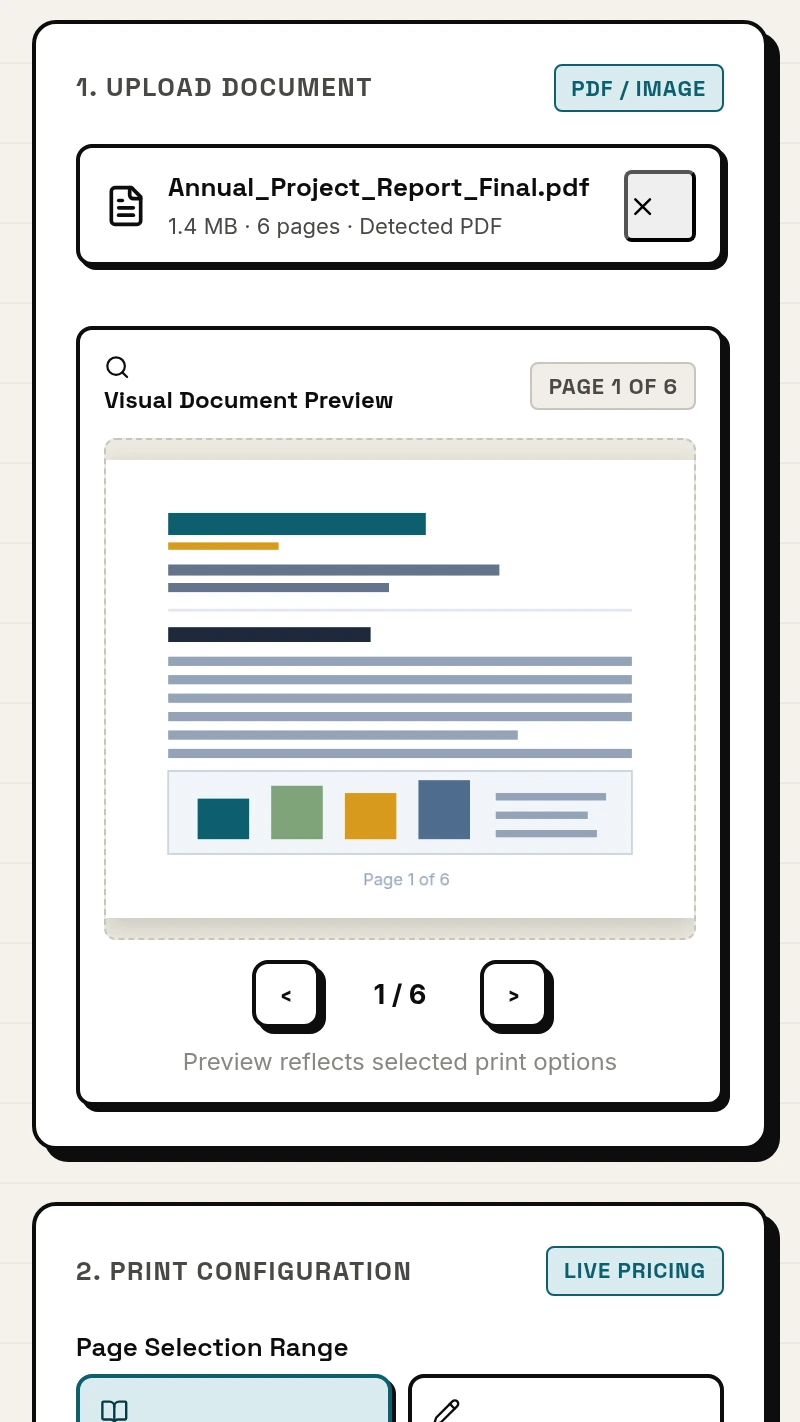
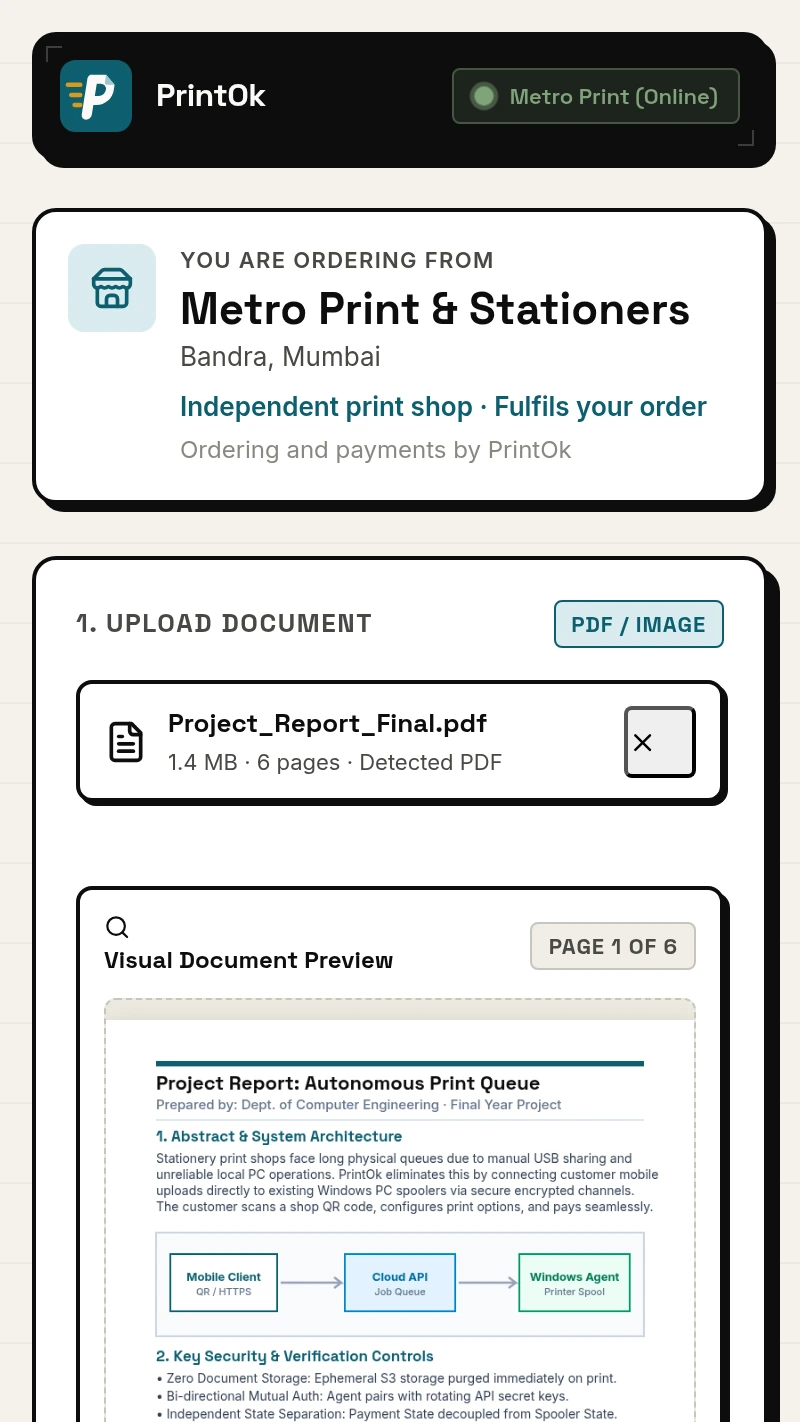
fixed second ss

diff --git a/apps/customer-web/public/index.html b/apps/customer-web/public/index.html
@@ -106,7 +106,7 @@
       <ol class="walkthrough">
         <li class="walk-step">
           <figure class="walk-shot">
-            <img src="/images/how-it-works/01-upload.webp" width="400" height="711"
+            <img src="/images/how-it-works/01-upload.webp?v=2" width="400" height="711"
                  loading="lazy" decoding="async"
                  alt="The PrintOk upload screen on mobile: shop header with online status, shop identity card, and document upload drop area."></figure>
           <div class="walk-copy">
@@ -119,7 +119,7 @@
 
         <li class="walk-step">
           <figure class="walk-shot">
-            <img src="/images/how-it-works/02-preview.webp" width="400" height="711"
+            <img src="/images/how-it-works/02-preview.webp?v=2" width="400" height="711"
                  loading="lazy" decoding="async"
                  alt="The document preview screen showing the uploaded PDF with file size, page count, and a rendered visual document preview."></figure>
           <div class="walk-copy">
@@ -132,7 +132,7 @@
 
         <li class="walk-step">
           <figure class="walk-shot">
-            <img src="/images/how-it-works/03-configure.webp" width="400" height="711"
+            <img src="/images/how-it-works/03-configure.webp?v=2" width="400" height="711"
                  loading="lazy" decoding="async"
                  alt="Print configuration options on a phone: page selection, color mode, duplex printing, copies, and live pricing calculation."></figure>
           <div class="walk-copy">
@@ -145,7 +145,7 @@
 
         <li class="walk-step">
           <figure class="walk-shot">
-            <img src="/images/how-it-works/04-checkout.webp" width="400" height="711"
+            <img src="/images/how-it-works/04-checkout.webp?v=2" width="400" height="711"
                  loading="lazy" decoding="async"
                  alt="Order review and checkout on handset: shop details, itemized printing charges, customer contact details, and instant pay options."></figure>
           <div class="walk-copy">
@@ -158,7 +158,7 @@
 
         <li class="walk-step">
           <figure class="walk-shot">
-            <img src="/images/how-it-works/05-pay.webp" width="400" height="711"
+            <img src="/images/how-it-works/05-pay.webp?v=2" width="400" height="711"
                  loading="lazy" decoding="async"
                  alt="Instant UPI payment sheet: dynamic UPI QR code, one-tap UPI app shortcuts for GPay, PhonePe, Paytm, BHIM, cards and netbanking."></figure>
           <div class="walk-copy">
@@ -173,7 +173,7 @@
 
         <li class="walk-step">
           <figure class="walk-shot">
-            <img src="/images/how-it-works/06-token.webp" width="400" height="711"
+            <img src="/images/how-it-works/06-token.webp?v=2" width="400" height="711"
                  loading="lazy" decoding="async"
                  alt="Order confirmation screen displaying large print token number #042, four-step live printing status, and complete order details."></figure>
           <div class="walk-copy">
